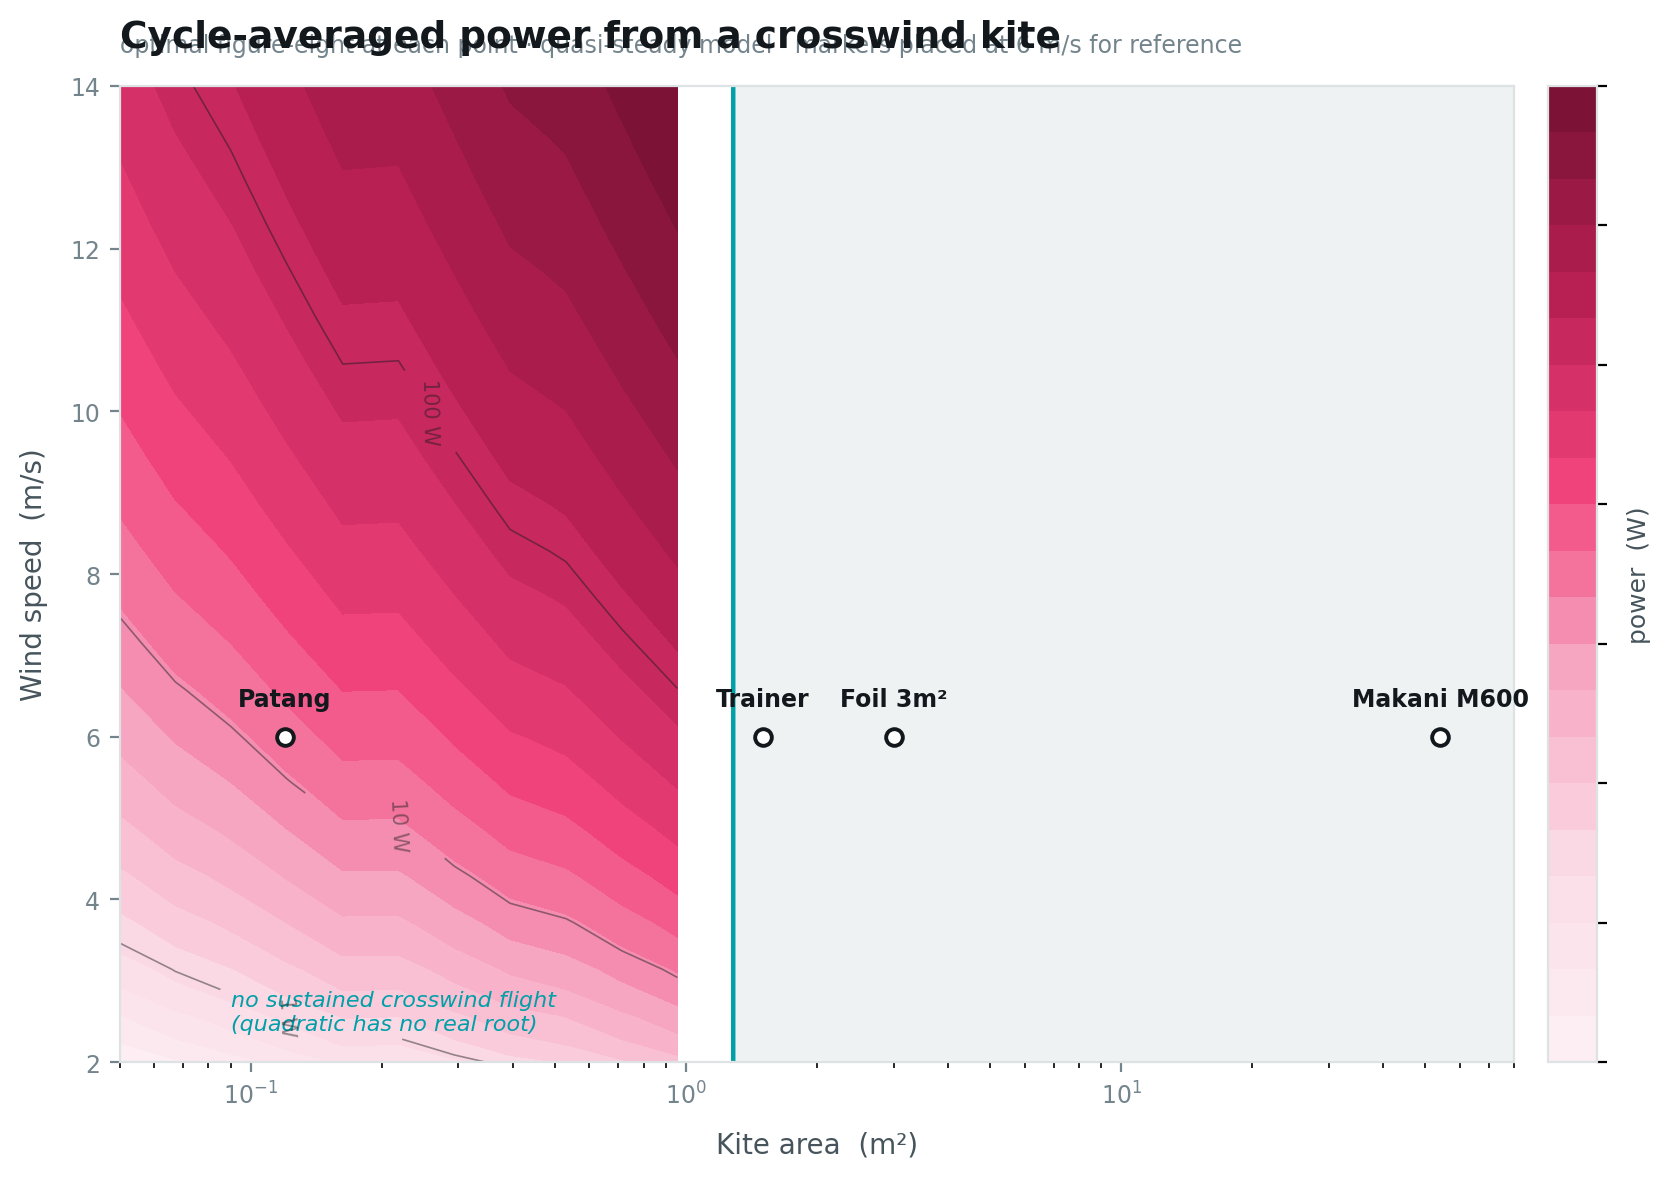
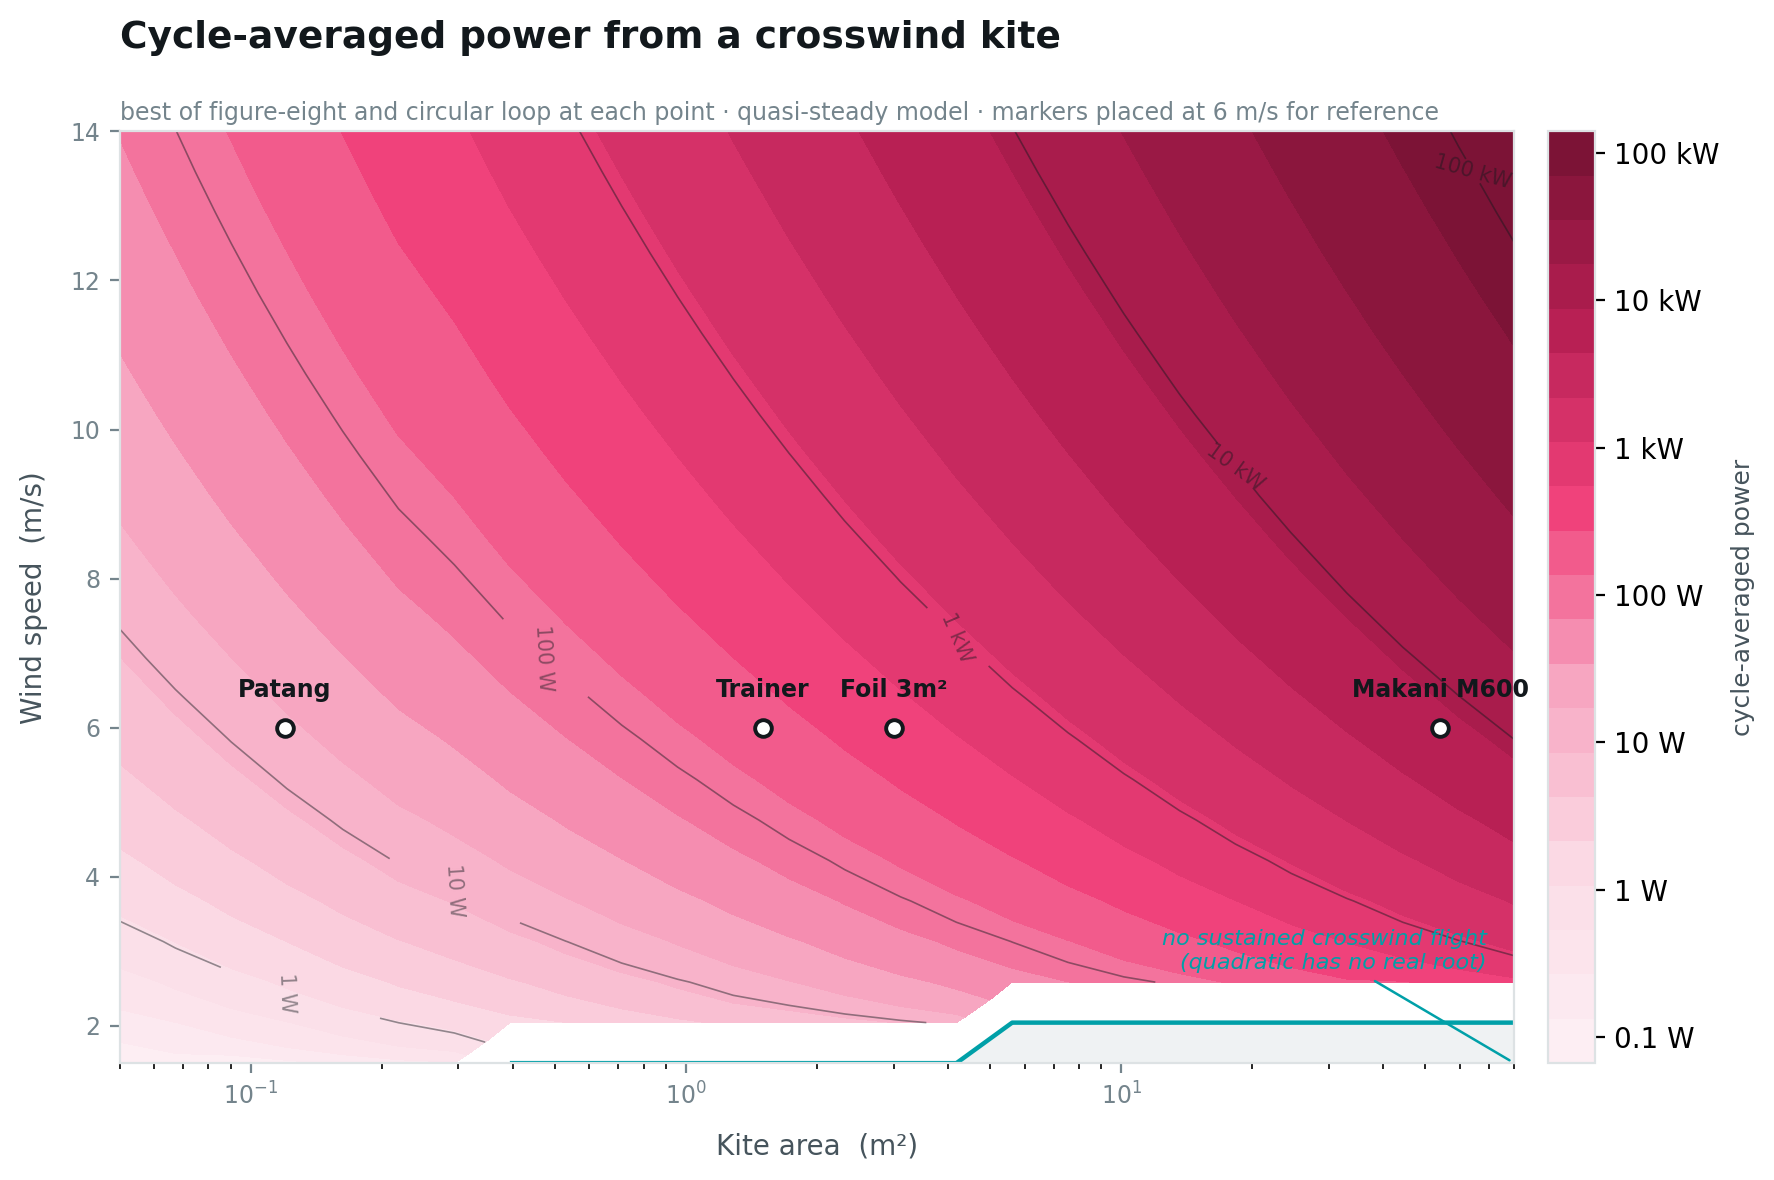
Fix design chart: add circular loop family, correct tether scaling
The chart previously showed nothing above 1 m2 able to fly. That was not a
physics bug -- the model was correctly reporting an impossible configuration.
Tether length was scaled as A^0.16 while the five-wingspan turning limit grows
as sqrt(A), so large kites could not hold a wide enough turn.

Two fixes. Tether length now scales with wingspan. And a circular path family
is added alongside the Lissajous figure-eight, because which pattern is even
geometrically feasible depends on size: an eight reverses direction at each
azimuth extreme and can only hold a turn radius of about 0.18 of the tether,
against a circle's 0.22. Past a certain scale only the circle survives, which
is very likely why Makani flew circles.

Note the circle needed its azimuth amplitude divided by cos(beta0). Without
that it traces a circle in angle space, which on the sphere is an ellipse with
a tight end -- defeating the entire purpose.

Also embeds both charts in the README.

diff --git a/model/design_chart.py b/model/design_chart.py
@@ -52,47 +52,85 @@ def make_cfg(area, mass, cl, cd, d, ar, L):
             'zeta_turn': 1.0, 'tension_limit': 1e9}
 
 
-def best_power(cfg, v, n=128):
-    """Fast coarse optimisation of the figure-eight at one operating point.
+def best_power(cfg, v, n=96, want_pattern=False):
+    """Coarse optimisation over BOTH path families at one operating point.
 
     A full Nelder-Mead run per grid cell would take hours for a whole chart.
-    The optimum turned out to be smooth and stable in earlier runs, so a
-    modest grid is enough here -- and a grid cannot get stuck in a local
-    optimum, which matters when we are sweeping across the stall boundary.
+    The optimum is smooth and stable, so a modest grid is enough -- and a grid
+    cannot get stuck in a local optimum, which matters when sweeping across
+    the stall boundary.
+
+    Both a figure-eight and a circle are tried, because which one is even
+    FEASIBLE depends on size. The five-wingspan turning limit scales as
+    sqrt(area), while the tightest turn a Lissajous eight can hold is about
+    0.18 of the tether length against a circle's 0.22. Past a certain scale
+    the eight is geometrically impossible and only the circle survives.
     """
     span = np.sqrt(cfg['aspect_ratio'] * cfg['area'])
     r_min = 5.0 * span
-    best = 0.0
+    best, winner = 0.0, "none"
 
-    for beta0 in (18.0, 24.0, 30.0, 38.0, 48.0):
-        for sweep in (18.0, 28.0, 38.0, 48.0):
-            for rise in (0.0, 6.0, 12.0):
-                if rise >= beta0 - 14.0:
+    reels = (0.10, 0.16, 0.22, 0.28, 0.34)
+
+    for beta0 in (18.0, 25.0, 32.0, 40.0, 50.0):
+        # --- figure-eight ------------------------------------------------
+        for sweep in (20.0, 32.0, 44.0, 56.0):
+            for rise in (6.0, 12.0, 18.0):
+                if rise >= beta0 - 13.0:
                     continue
                 path = {'beta0': beta0, 'sweep': sweep, 'rise': rise}
-                for f in (0.10, 0.16, 0.22, 0.28, 0.34):
-                    p, t, _, stall, rturn = K.reel_out_power(v, cfg, path, f, n=n)
+                for f in reels:
+                    p, _, _, stall, rturn = K.reel_out_power(
+                        v, cfg, path, f, n=n, state_fn=K.lissajous_state)
                     if stall > 0.02 or rturn < r_min * 0.98:
                         continue
                     if p > best:
-                        best = p
-    return best
+                        best, winner = p, "eight"
+
+        # --- circle -------------------------------------------------------
+        for R in (10.0, 15.0, 20.0, 25.0, 30.0):
+            if R >= beta0 - 8.0:
+                continue
+            path = {'beta0': beta0, 'radius': R}
+            for f in reels:
+                p, _, _, stall, rturn = K.reel_out_power(
+                    v, cfg, path, f, n=n, state_fn=K.circle_state)
+                if stall > 0.02 or rturn < r_min * 0.98:
+                    continue
+                if p > best:
+                    best, winner = p, "circle"
+
+    return (best, winner) if want_pattern else best
 
 
 def dimensional_chart(path_out="../figures/design_chart.png"):
     areas = np.logspace(np.log10(0.05), np.log10(80), 26)
-    winds = np.linspace(2.0, 14.0, 22)
+    winds = np.linspace(1.5, 14.0, 24)
 
     P = np.zeros((len(winds), len(areas)))
+    W = np.zeros((len(winds), len(areas)))       # 1 = eight, 2 = circle
+
     for i, v in enumerate(winds):
         for j, A in enumerate(areas):
-            # scale the kite plausibly with area: soft-kite areal density,
-            # tether diameter set by the load it has to carry
+            # Scale the kite plausibly with area: soft-kite areal density,
+            # tether diameter set by the load it carries, and tether LENGTH
+            # set by wingspan.
+            #
+            # That last one matters more than it looks. The turning limit is
+            # 5 wingspans and the achievable turn radius is a fixed fraction
+            # of tether length, so a tether that does not grow with span makes
+            # large kites geometrically unflyable. An earlier version scaled
+            # L as A^0.16 and produced a chart where nothing above 1 m2 could
+            # fly -- which was the model correctly reporting an impossible
+            # configuration, not a bug in the physics.
+            span = np.sqrt(3.5 * A)
             mass = 0.10 * A ** 1.15
             d = 0.0006 * np.sqrt(A / 0.12)
-            L = 40.0 * (A / 0.12) ** 0.16
+            L = max(30.0, 25.0 * span)
             cfg = make_cfg(A, mass, 0.85, 0.22, d, 3.5, L)
-            P[i, j] = best_power(cfg, v)
+            p, pat = best_power(cfg, v, want_pattern=True)
+            P[i, j] = p
+            W[i, j] = {"eight": 1.0, "circle": 2.0}.get(pat, 0.0)
 
     fig, ax = plt.subplots(figsize=(9.2, 6.0), dpi=200)
     fig.patch.set_facecolor("white")
@@ -110,8 +148,17 @@ def dimensional_chart(path_out="../figures/design_chart.png"):
     # the no-flight region
     ax.contourf(areas, winds, P, levels=[-1, 1e-4], colors=["#EFF2F3"])
     ax.contour(areas, winds, P, levels=[1e-4], colors=[FLOW], linewidths=1.6)
-    ax.text(0.09, 2.35, "no sustained crosswind flight\n(quadratic has no real root)",
-            fontsize=8, color=FLOW, va="bottom", style="italic")
+    # Label the no-flight region wherever it actually is. It moves: small
+    # kites are light and fly in very light wind, while large kites carry
+    # enough mass that gravity beats them at the bottom of the wind range.
+    if (P <= 1e-4).any():
+        ii, jj = np.where(P <= 1e-4)
+        k = int(np.argmax(areas[jj]))
+        ax.annotate("no sustained crosswind flight\n(quadratic has no real root)",
+                    xy=(areas[jj[k]], winds[ii[k]]),
+                    xytext=(-10, 34), textcoords="offset points",
+                    fontsize=8, color=FLOW, style="italic", ha="right",
+                    arrowprops=dict(arrowstyle="-", color=FLOW, lw=.9))
 
     for name, A, m, cl_, cd_, d, ar, L in REAL_SYSTEMS:
         if A < areas[0] or A > areas[-1]:
@@ -124,17 +171,21 @@ def dimensional_chart(path_out="../figures/design_chart.png"):
     ax.set_xlabel("Kite area  (m²)", fontsize=10, color=INK2, labelpad=8)
     ax.set_ylabel("Wind speed  (m/s)", fontsize=10, color=INK2, labelpad=8)
     ax.set_title("Cycle-averaged power from a crosswind kite",
-                 fontsize=13.5, color=INK, weight="600", loc="left", pad=14)
-    ax.text(0, 1.035, "optimal figure-eight at each point · quasi-steady model · "
+                 fontsize=13.5, color=INK, weight="600", loc="left", pad=30)
+    ax.text(0, 1.012, "best of figure-eight and circular loop at each point · quasi-steady model · "
             "markers placed at 6 m/s for reference",
             transform=ax.transAxes, fontsize=8.5, color=INK3)
 
-    cb = fig.colorbar(cs, ax=ax, pad=.02)
-    cb.set_label("power  (W)", fontsize=9, color=INK2)
+    ticks = [t for t in (0.1, 1, 10, 100, 1e3, 1e4, 1e5)
+             if masked.min() <= t <= masked.max()]
+    cb = fig.colorbar(cs, ax=ax, pad=.02, ticks=ticks)
+    cb.ax.set_yticklabels([("%g W" % t) if t < 1000 else ("%g kW" % (t / 1000))
+                           for t in ticks])
+    cb.set_label("cycle-averaged power", fontsize=9, color=INK2)
     cb.outline.set_edgecolor(LINE)
 
-    for s in ax.spines.values():
-        s.set_color(LINE)
+    for sp in ax.spines.values():
+        sp.set_color(LINE)
     ax.tick_params(colors=INK3, labelsize=8.5)
     fig.tight_layout()
     fig.savefig(path_out, facecolor="white", bbox_inches="tight")
@@ -178,8 +229,12 @@ def nondimensional_chart(path_out="../figures/design_chart_nondim.png"):
     ax.contourf(Es, Gs, Z, levels=[-1, 1e-5], colors=["#EFF2F3"])
     ax.contour(Es, Gs, Z, levels=[1e-5], colors=[FLOW], linewidths=1.6)
 
-    for name, Ev, Gv in (("Patang", 2.3, 0.064), ("Trainer", 4.2, 0.30),
-                         ("Foil 3m²", 4.2, 0.30), ("M600", 11.0, 0.35)):
+    # The 1.5 m2 trainer and the 3 m2 foil share (E, G) exactly, so they land
+    # on the same point despite one being twice the area. That is the collapse
+    # doing its job -- label them together rather than stacking two markers.
+    for name, Ev, Gv in (("Patang", 2.3, 0.064),
+                         ("Trainer & 3 m² foil  (same E, G)", 4.2, 0.30),
+                         ("Makani M600", 11.0, 0.35)):
         if Es[0] <= Ev <= Es[-1] and Gs[0] <= Gv <= Gs[-1]:
             ax.plot([Ev], [Gv], "o", ms=6, mfc="white", mec=INK, mew=1.4, zorder=6)
             ax.annotate(name, (Ev, Gv), textcoords="offset points", xytext=(7, 5),
@@ -189,8 +244,8 @@ def nondimensional_chart(path_out="../figures/design_chart_nondim.png"):
     ax.set_xlabel("Glide ratio  E = C_L / C_D", fontsize=10, color=INK2, labelpad=8)
     ax.set_ylabel("Gravity number  G = mg / (½ρv²A·C_L)", fontsize=10, color=INK2, labelpad=8)
     ax.set_title("Power coefficient  P / (½ρAv³)", fontsize=13.5, color=INK,
-                 weight="600", loc="left", pad=14)
-    ax.text(0, 1.035, "the same physics, size removed — any kite sharing (E, G) "
+                 weight="600", loc="left", pad=30)
+    ax.text(0, 1.012, "the same physics, size removed — any kite sharing (E, G) "
             "lands on the same point", transform=ax.transAxes, fontsize=8.5, color=INK3)
 
     cb = fig.colorbar(cs, ax=ax, pad=.02)

diff --git a/model/kite.py b/model/kite.py
@@ -195,6 +195,45 @@ def lissajous_state(s, params):
     return beta, phi, dbeta, dphi
 
 
+def circle_state(s, params):
+    """Circular loop: phi = R sin(s), beta = beta0 + R cos(s).
+
+    Note the frequency ratio is 1:1, not the 1:2 that makes a figure-eight.
+    That single difference is why this is a circle, and it matters more than
+    it looks:
+
+    A figure-eight REVERSES direction at each azimuth extreme, and that
+    reversal is a tight, near-cusp turn. The best a Lissajous eight can manage
+    is a turn radius of about 0.18 of the tether length. A circle never
+    reverses -- its curvature is uniform -- so it can hold a far gentler turn.
+
+    That is decisive for large kites. The five-wingspan turning limit scales as
+    sqrt(area), so past a certain size the eight becomes geometrically
+    impossible and only the circle remains feasible. It is very likely why
+    Makani flew circles rather than eights.
+
+    The cost of a circle is that it winds the tether up, so it needs a swivel
+    or periodic unwinding. Small kites, where the turn limit does not bind,
+    are better off with the eight for exactly that reason.
+
+    Note the 1/cos(beta0) on the azimuth. Without it this traces a circle in
+    ANGLE space, which on the sphere is an ellipse squashed by cos(beta) --
+    and an ellipse has a tight end, defeating the whole point. Azimuthal arc
+    length is L*cos(beta)*dphi while elevation arc length is L*dbeta, so the
+    azimuth amplitude has to be divided by cos(beta0) for the loop to be
+    round in arc length rather than round on a plot.
+    """
+    beta0 = np.radians(params['beta0'])
+    R = np.radians(params['radius'])
+    stretch = R / max(np.cos(beta0), 0.15)
+
+    phi = stretch * np.sin(s)
+    beta = beta0 + R * np.cos(s)
+    dphi = stretch * np.cos(s)
+    dbeta = -R * np.sin(s)
+    return beta, phi, dbeta, dphi
+
+
 def fourier_state(s, params):
     """General closed periodic path as a truncated Fourier series.
 

diff --git a/README.md b/README.md
@@ -120,6 +120,54 @@ Pure first harmonic in azimuth, pure second harmonic in elevation — **a Lissaj
 with everything else set to zero. The classical figure-eight is within ~5% of optimal, and that 5%
 comes from retuning elevation and reel-out speed, not from a better shape.
 
+## The design chart
+
+![Cycle-averaged power against kite area and wind speed](figures/design_chart.png)
+
+Power from a crosswind kite across five orders of magnitude, from a 0.12 m² festival patang to
+Makani's 54 m² M600. At every point the trajectory is optimised — both a figure-eight and a circular
+loop are tried, and the better one wins. The teal line at the bottom is the **no-flight boundary**,
+where the flight-speed quadratic loses its real root and the kite physically cannot sustain the
+climb.
+
+Two things fell out of building this that were not obvious.
+
+**A figure-eight cannot fly at large scale.** The five-wingspan turning limit grows as √area, but the
+tightest turn a Lissajous figure-eight can hold is only about **0.18 × tether length** — the reversal
+at each azimuth extreme is a near-cusp. A circle never reverses, so it holds about **0.22 ×**. Past a
+certain size the eight is *geometrically impossible* and only the circle remains feasible.
+
+An earlier version of this chart showed nothing above 1 m² able to fly. That turned out not to be a
+bug in the physics but the model correctly reporting an impossible configuration: the tether length
+was being scaled as `A^0.16` while the turn requirement grew as `√A`. Tether length has to scale with
+wingspan.
+
+**And the model says circles beat figure-eights everywhere on pure power.** That is not a
+contradiction of practice — it's a statement about what the model contains. There is no penalty here
+for winding the tether up, and tether twist is exactly why the field flies figure-eights. The
+advantage of the eight is operational, not aerodynamic.
+
+### With size removed
+
+![Power coefficient against glide ratio and gravity number](figures/design_chart_nondim.png)
+
+The same physics, non-dimensionalised. Everything now depends on just two numbers: the glide ratio
+`E = C_L/C_D`, and the gravity number `G = mg/(½ρv²A·C_L)` — how heavy the kite is relative to the
+lift it can make. Any two kites sharing `(E, G)` land on the same point regardless of size, which is
+what licenses a 0.12 m² patang to say anything at all about a 54 m² Makani wing.
+
+The 1.5 m² trainer and the 3 m² foil sit on **exactly the same point** despite one being twice the
+area. That is the collapse working.
+
+Two readings worth taking from it:
+
+- **`E` dominates.** The contours run almost vertically — power coefficient tracks glide ratio and
+  barely notices gravity until `G` exceeds roughly 0.5. This is why P1 is the gate: get `E` wrong
+  and nothing else matters.
+- **Gravity only bites in the top-left.** High `G` *and* low `E` together produce the no-flight
+  region. A patang survives light wind not despite being flimsy but because of it — at 12 grams its
+  `G` is 0.06, an order of magnitude below a power foil's.
+
 ## Uncertainty, and why P1 must come first
 
 A prediction of "2.32 W" cannot be wrong — any measurement differs from it, so "close enough"
